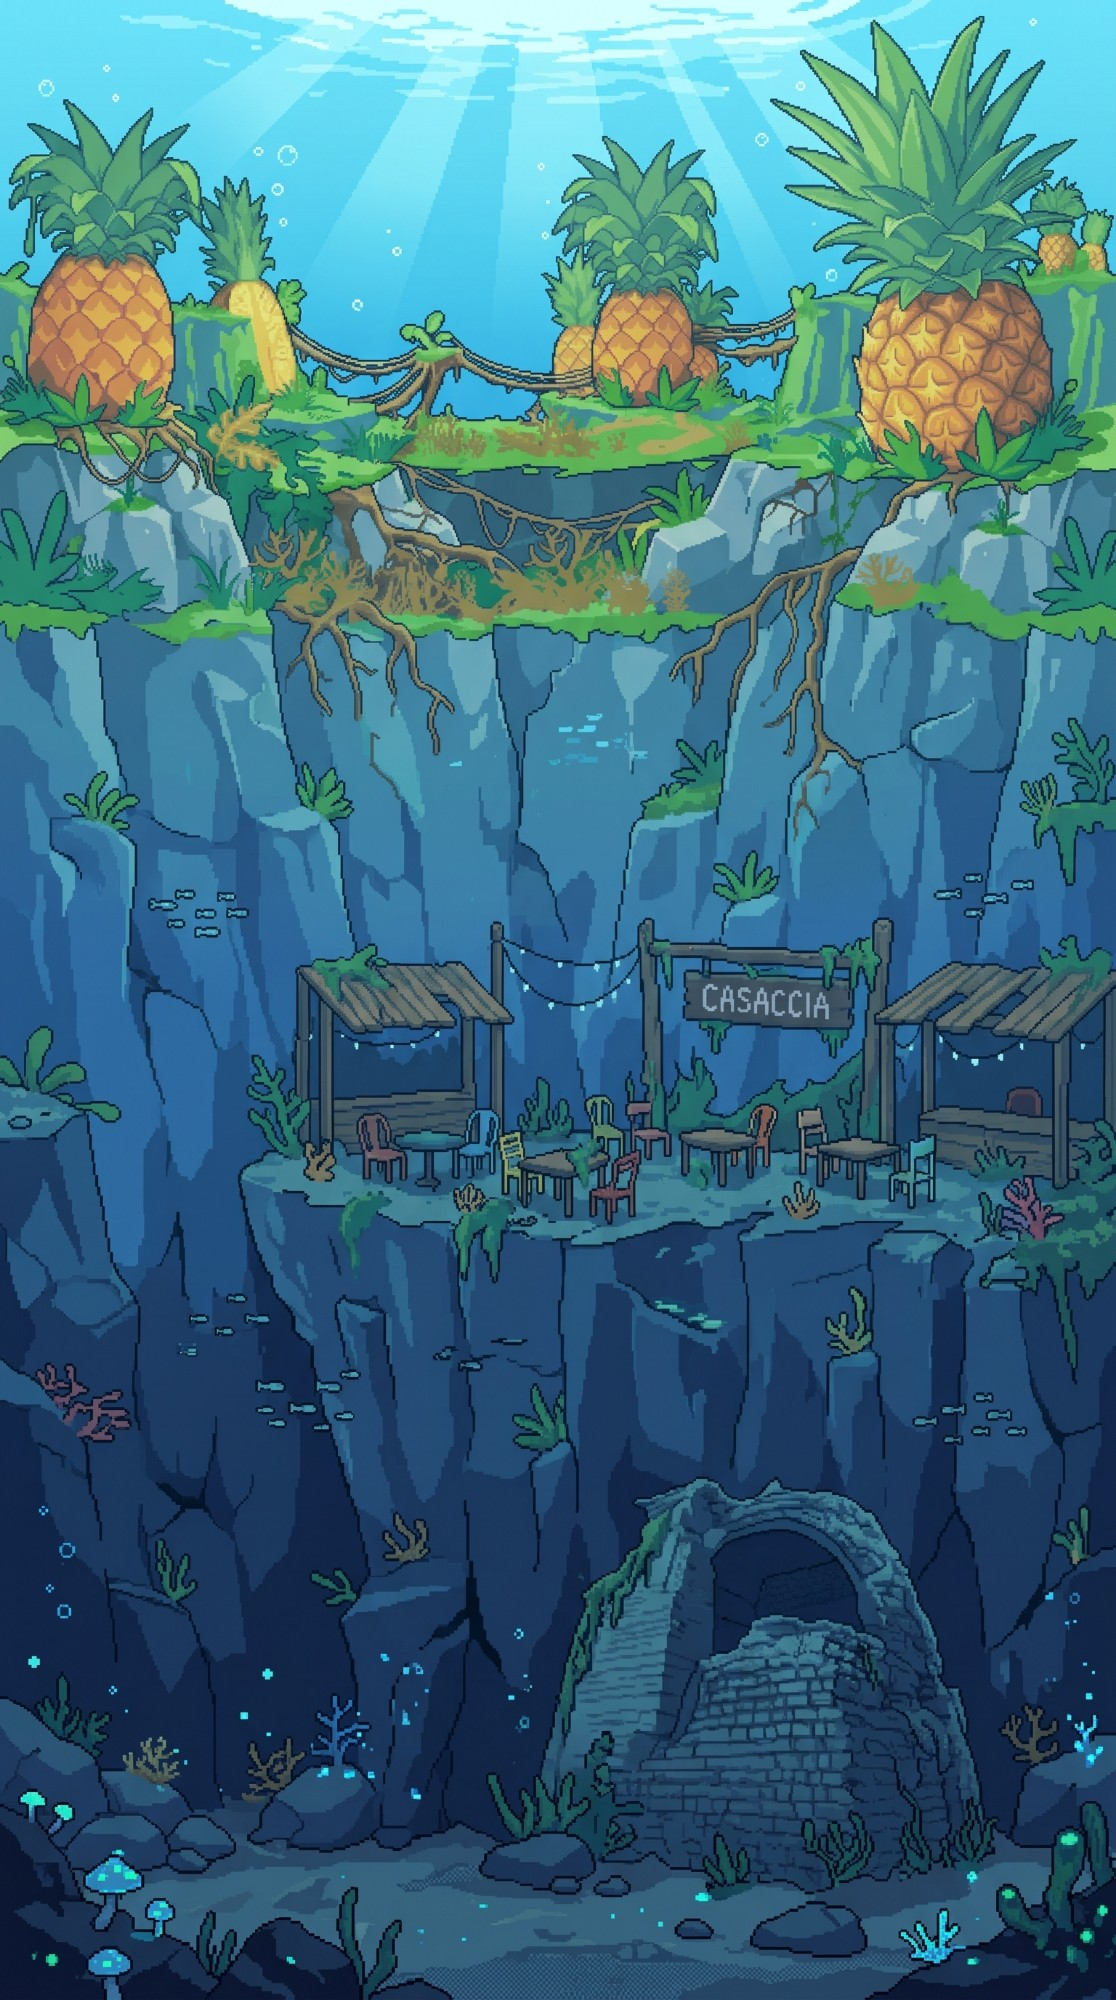
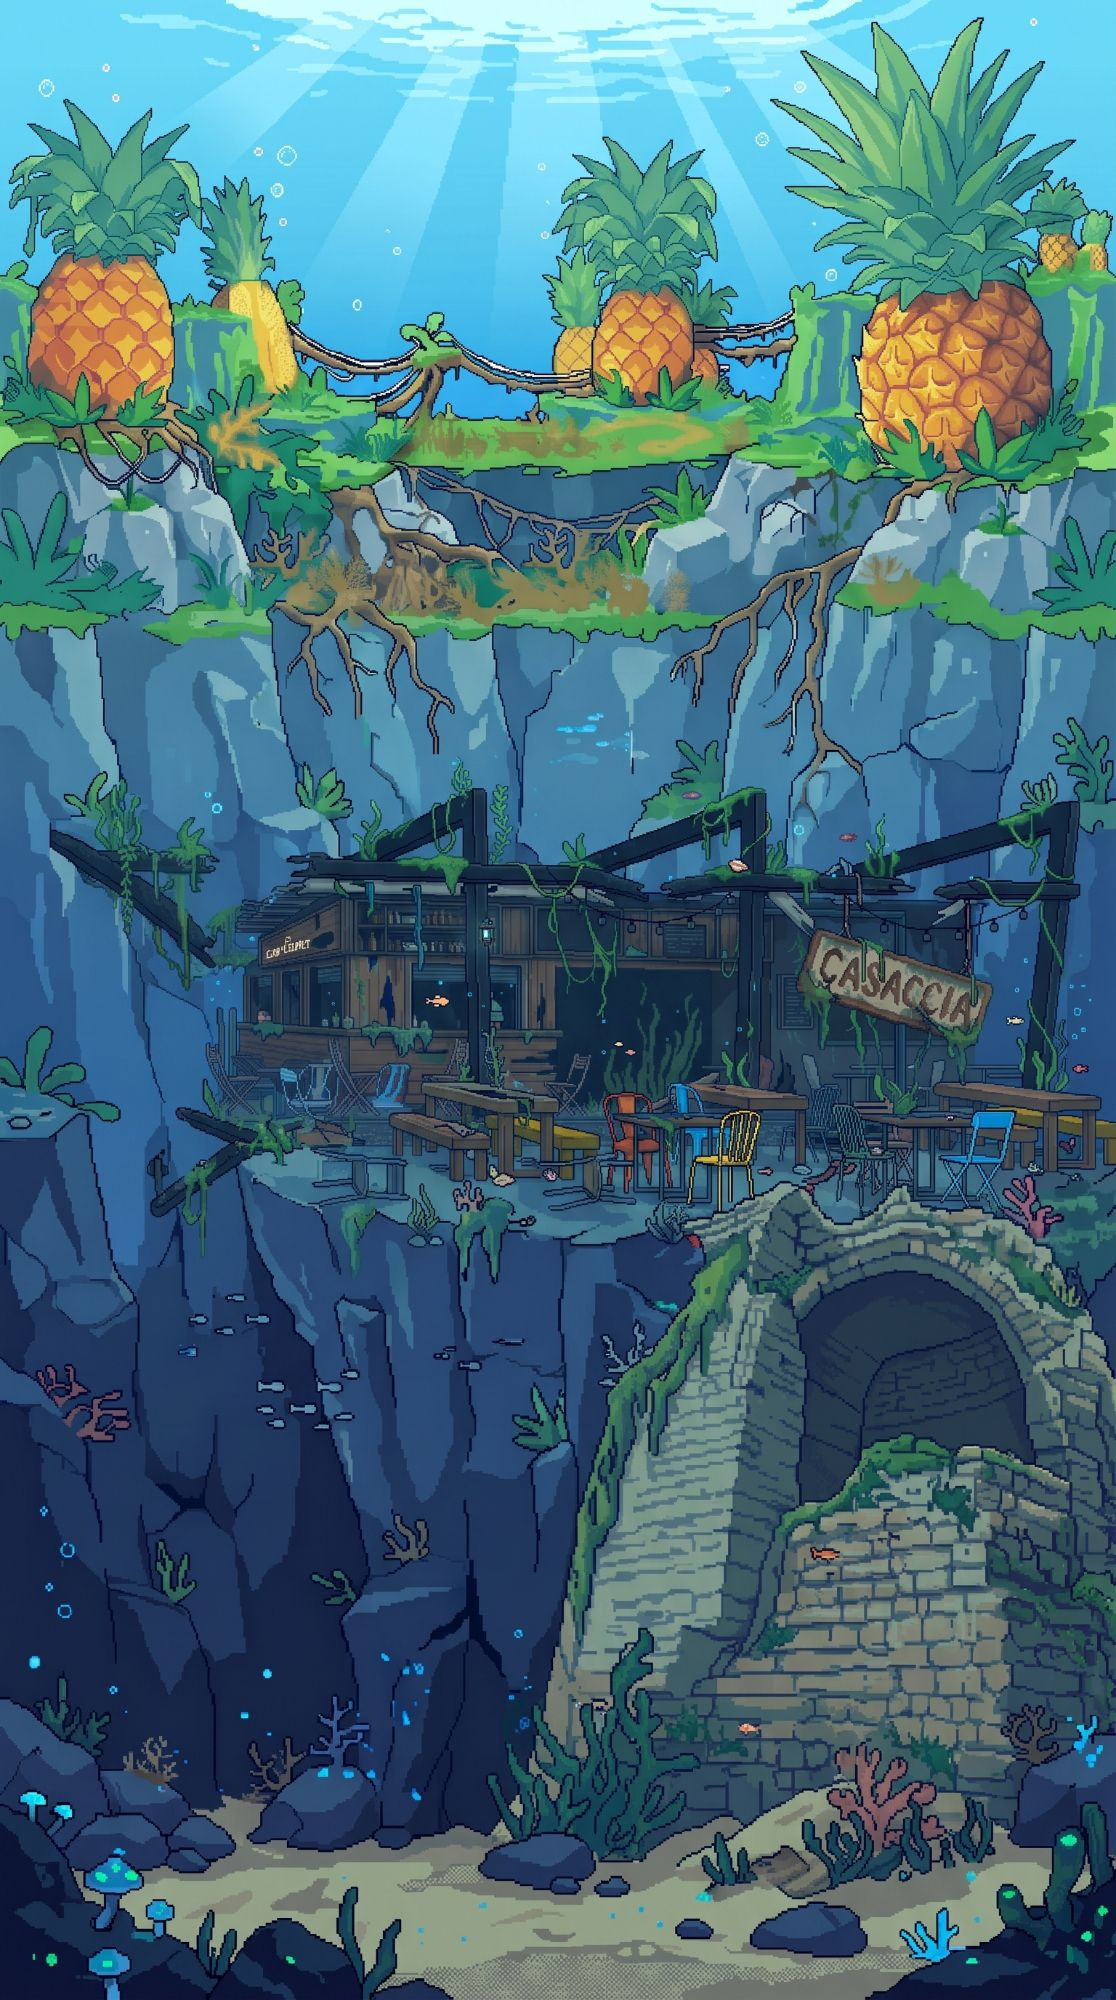
Fondale sott'acqua con la Casaccia più fedele

diff --git a/index.html b/index.html
@@ -20,7 +20,7 @@
 <link rel="preconnect" href="https://fonts.googleapis.com">
 <link rel="preconnect" href="https://fonts.gstatic.com" crossorigin>
 <link rel="stylesheet" href="https://fonts.googleapis.com/css2?family=Bowlby+One&family=Baloo+2:wght@500;700;800&display=swap">
-<link rel="stylesheet" href="style.css?v=127">
+<link rel="stylesheet" href="style.css?v=128">
 
 <div id="schermo">
 <canvas id="d2" aria-label="Gioco Cicciobomba"></canvas>
@@ -89,6 +89,6 @@
 <div id="erroreT" hidden>Il gioco non è riuscito a partire. Controlla la connessione e ricarica la pagina.</div>
 
 </div>
-<script src="game.js?v=127"></script>
+<script src="game.js?v=128"></script>
 
 </body></html>

diff --git a/CLAUDE.md b/CLAUDE.md
@@ -77,7 +77,7 @@ Gioco per browser pensato per il telefono in orizzontale, pubblicato con GitHub 
 - Lele Volley (`palla:true`) è disegnato dall'utente: `boss_schiacciata.png` (schiacciata, 4 fotogrammi da 240x254, ingranditi di 1,45), `boss_pallavolo.png` (5 da 240x434: del primo foglio della schiacciata resta in uso solo la 4, in guardia), `boss_ricezione.png` (3 da 300x339, ingranditi di 1,32) e `boss_stordito.png` (4 da 260x254, ingranditi di 1,35), `boss_sconfitto.png` (4 da 280x254, ingranditi di 1,4: cade, sudato, dorme, KO; resta a terra anche nella schermata finale), originali in `paesaggio/`, disegnati da `disegnaSchiacc` e tutti rimpiccioliti di `BZ`. Quando si sposta usa i passettini di `boss_passi.png` (4 fotogrammi, ingranditi di 1,3: all'utente vanno bene così, non sono una camminata vera); da fermo la posa 4 mossa dal codice. È una partita di pallavolo: rete a `RETE`, Matteo a sinistra (non la passa), il boss a destra (`b.meta`), una sola palla alla volta. Lele è poco più alto di Matteo (`BZ`: 2,08 caselle contro 1,75; alto uguale all'utente sembrava troppo piccolo). Prima del via, quando Matteo si è alzato, dice una frase di sfida in un fumetto (`fumettoSfida`, `SFIDA`). Le sue pose sono di tre quarti, con un piede più in alto dell'altro: nelle pose con i due piedi a terra lo si appoggia su quello più alto, così toccano entrambi e l'altro copre un po' il pavimento. Ogni attacco è una `battuta`: la palla piove, bagher, alzata, schiaccia col cerchio rosso, una volta su tre addosso a Matteo e le altre a 2-5 caselle da lui (`miraPalla`); finché è in gioco, anche dopo il primo rimbalzo, fa male se la tocchi senza scatto; ogni terza è più veloce (`b.forte`). Il boss si colpisce solo ribattendo la palla con lo scatto entro 1,5 caselle (`ribatti`, che rende il fiato): né lo scatto addosso né le esplosioni gli fanno male. In tutta la partita compare un solo cuore, dopo il terzo colpo (`b.cuore`). La prima volta c'è un tutorial sulla prima palla (`M.tut`): spiega il cerchio rosso, ferma il gioco quando la palla è a portata (`G.stato='ora'`, `#tScatto.ora`) e riparte solo con lo scatto, poi spiega le regole (`S.consigli`, chiave `lele_3`). Le fasi sono le vite perse: alla 5 (2 vite) Lele va un po' più veloce, alla 6 (l'ultima) di più (`velFase`, che vale anche per la palla, schiacciate e ribattute: stessa curva percorsa più in fretta, `c.g`), e all'inizio della 6 dice "Prendi questo Cicciobomba!" in un fumetto (`FRASE_6`, senza fermare il gioco). Ogni vita persa allunga lo scambio di una ribattuta (`palloneAlBoss`): 1 con tutte le vite, 6 all'ultima; fino ad allora riceve e rilancia, e a ogni scambio la palla va un po' più veloce.
 - Con `?livello=2` nell'indirizzo la partita parte da sola dall'Abisso (`PARTENZA`), senza menu né guida: serve a provarlo da solo; con `?boss=2` si entra subito nella stanza del boss (`BOSS_SUBITO`). In questi link lo schermo intero parte al primo tocco, perché il browser lo concede solo dopo un gesto.
 - Sott'acqua (`nuoto`, `inAcqua`) Matteo cade da solo: le frecce lo spostano, SALTO nuota su (tenendolo premuto continua, `bracciata`), SCATTO lo spara in basso (`scattoGiu`), rompe le casse ed elimina pesci (`f`) e meduse (`m`). Solo lo scatto li uccide: cadendoci sopra fanno male. Il fiato non si consuma. I muri crepati (`X`) si aprono nuotandoci contro di lato con slancio, se si è carichi. Caratteri in più: `S`, `F`, `~`, `*` riccio, `u` corrente.
-- Il fondale sott'acqua è `fondi/mare.jpg` (`FONDO_MARE`, in `fondaleMare`), 1116x2000, largo quanto lo schermo (non di più, se no si sgrana) e senza scorrere di lato: un'unica immagine dell'utente fatta con Gemini, usata così com'è (`paesaggio/mare_unico_originale.jpg`): una scogliera vista di fronte, piena da un bordo all'altro, con gli ananas in cima, la Casaccia a metà e la torre di Torre dell'Orso sul fondale. A Gemini le tre immagini da attaccare non riuscivano: un'unica immagine non ha giunture. Provata anche la Casaccia disegnata a parte (`paesaggio/casaccia_originale.jpg`) incollata sulla sporgenza: l'utente ha preferito l'immagine originale. Scorre dalla superficie alle rovine con la profondità. `build.py` accetta anche i `.jpg`.
+- Il fondale sott'acqua è `fondi/mare.jpg` (`FONDO_MARE`, in `fondaleMare`), 1116x2000, largo quanto lo schermo (non di più, se no si sgrana) e senza scorrere di lato: un'unica immagine dell'utente fatta con Gemini, usata così com'è (`paesaggio/mare_unico2_originale.jpg`, con la Casaccia più fedele; la versione prima è `mare_unico_originale.jpg`): una scogliera vista di fronte, piena da un bordo all'altro, con gli ananas in cima, la Casaccia a metà e la torre di Torre dell'Orso sul fondale. A Gemini le tre immagini da attaccare non riuscivano: un'unica immagine non ha giunture. Provata anche la Casaccia disegnata a parte (`paesaggio/casaccia_originale.jpg`) incollata sulla sporgenza: l'utente ha preferito l'immagine originale. Scorre dalla superficie alle rovine con la profondità. `build.py` accetta anche i `.jpg`.
 - Caselle e creature sono **provvisori, disegnati nel codice** nella sezione MARE (per le caselle basta cambiare `mareTile`), in attesa dei disegni dell'utente. I tileset in `~/Downloads/Tilesets` sono grafica estratta da Super Mario Bros.: non vanno messi nel gioco.
 
 ## Note
